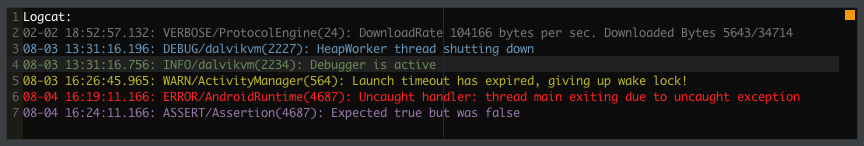
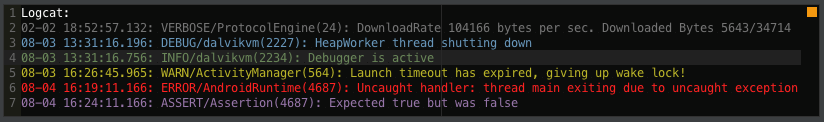
Better error mark, both in language defaults, and Groovy. Updated screenshots. Android Studio 2.0 fix.

Changed region(s): [[0.0, 0.1721, 0.9709, 0.8852], [0.0, 0.0246, 1.0, 0.1721]]

diff --git a/README.md b/README.md
@@ -8,10 +8,22 @@ It's doesn't nescessarily look nice to you, but I like it :-)
 
 # Examples
 ### Editor
-![Editor](ColorBlind-screenshot-editor.png)
+![Java](colorblind-screenshot-java.png)
 
 ### LogCat output
-![LogCat](ColorBlind-screenshot-logcat.png)
+![LogCat](colorblind-screenshot-logcat.png)
+
+### Groovy
+![Groovy](colorblind-screenshot-groovy.png)
+
+### Language Defaults
+![LangDefaults](colorblind-screenshot-lang-defaults.png)
+
+### General
+![General](colorblind-screenshot-general.png)
+
+### Console
+![Console](colorblind-screenshot-console.png)
 
 # Installation
 Either import `ColorBlind.jar` via `File->Import Settings` or copy `ColorBlind.icls` to `~/Library/Preferences/{IdeaIC12, IntelliJIdea12, appCode20, AndroidStudio}/colors`
